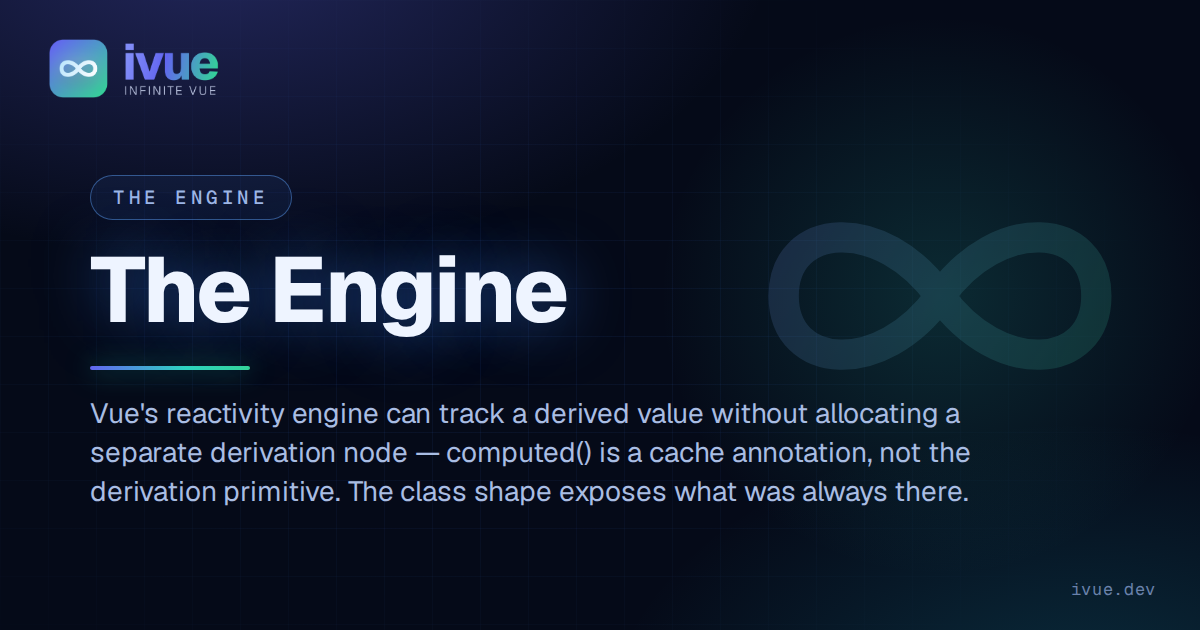
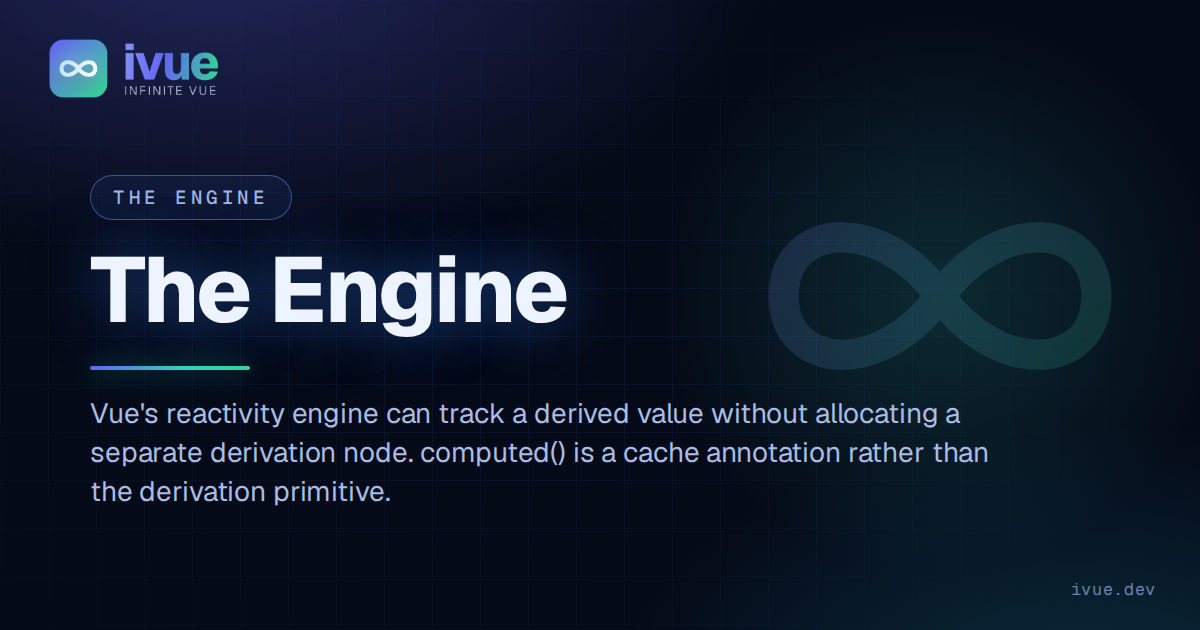
docs(engine): reduce the engine page — 1293 words to 861, zero prose-lint findings
Ran Vale (ai-tells + Slop) and ste-lint over the page and cut what they
found, then cut what they could not see.

Mechanical: 29 em-dashes and 11 prose semicolons gone, three explainer
headings restated as topics ("The engine's three moves", "Closure
geometry", "The prototype"), "load-bearing" removed, the not-X-but-Y
formulas dropped.

Structural: deleted the closing "The claim, precisely" section, which
restated the page, pre-apologised to three imagined objectors, and
repeated the 3-in-3,902 figure the census bullet already carries. Its
one piece of real information, the React scope limit, moved into
Convergence where it reads as landscape rather than disclaimer, and the
page gained a landing line.

Also cut three variants of the same "ivue adds nothing to Vue" crouch,
the duplicate concession to Vue's convention, two credibility labels
before the bullet lists, the prose that the prototype table repeats, and
the "transparent corridor" and "orders of magnitude" flourishes.

"Idiom" appeared eight times, three of them within four lines. Six sites
had a concrete subject available (every tutorial, everyone, Vue code);
the remaining two use "convention", which unlike "habit" allows the
convention to have been correct.

Every claim, number and link survives: the three moves, both code
blocks, 300 bytes per computed, three computed()s in ~3,900 lines,
6 to 132x creation, 1.1 kB. Frontmatter description trimmed so the OG
[…]

Changed region(s): [[0.0617, 0.6937, 0.8325, 0.8143]]

diff --git a/docs_v2/engine.md b/docs_v2/engine.md
@@ -1,38 +1,34 @@
 ---
 title: The Engine
-description: Vue's reactivity engine can track a derived value without allocating a separate derivation node — computed() is a cache annotation, not the derivation primitive. The class shape exposes what was always there.
+description: Vue's reactivity engine can track a derived value without allocating a separate derivation node. computed() is a cache annotation rather than the derivation primitive.
 relatedPosts: [computed-is-a-cache, discovered-not-invented, introducing-ivue]
 ---
 
 # The Engine
 
-ivue's central discovery is not a technique. It is a claim about Vue itself:
-
-> **Vue's reactivity engine has a native, zero-node mode for derived values —
-> and the standard idiom hides it.** `computed()` was never the derivation
+> **Vue's reactivity engine has a native, zero-node mode for derived values,
+> and the way Vue is normally written hides it.** `computed()` was never the derivation
 > primitive. It is a _cache annotation_. The derivation primitive is the
 > tracked read, and it flows through plain functions without creating another
 > reactive node.
 
-ivue doesn't patch Vue, wrap Vue, or compete with Vue. It changes the
-_authoring geometry_ so the engine's cheapest mode becomes the default
-instead of the exception. Same engine, different expression — and the
-difference is measured in orders of magnitude.
+ivue, a 1.1 kB class layer over that engine, changes the _authoring
+geometry_ so the cheapest mode becomes the default instead of the
+exception.
 
-## What the engine actually does
+## The engine's three moves
 
-Strip every idiom away and Vue's reactivity is three moves:
+Vue's reactivity is three moves:
 
-1. reads of reactive leaves (`ref.value`, reactive props) are **tracked**
-   against whatever effect is currently running;
-2. writes **notify** the effects that read them;
-3. tracking flows **through arbitrary function calls** — the engine neither
+1. Reads of reactive leaves (`ref.value`, reactive props) are **tracked**
+   against whatever effect is currently running.
+2. Writes **notify** the effects that read them.
+3. Tracking flows **through arbitrary function calls**. The engine neither
    knows nor cares how many stack frames sit between the effect and the leaf.
 
-That third move is the buried one. When a render effect reads a plain
-getter, the getter's body executes _inside the effect_ — so every leaf it
-touches subscribes the effect directly. The getter is a transparent
-corridor:
+The third move is the one Vue code rarely uses. When a render effect reads a
+plain getter, the getter's body executes _inside the effect_, so every leaf
+it touches subscribes the effect directly:
 
 ```ts
 class $Cart {
@@ -46,137 +42,109 @@ class $Cart {
 }
 ```
 
-A template reading `cart.total` re-renders when `items` changes — with
-**zero per-instance reactive machinery** for `total` itself. No `ComputedRefImpl`, no
-dependency links, no invalidation bookkeeping, no per-instance bytes. The
-engine has supported this since Vue 3.0 — it is a direct consequence of how
-tracking works, not a feature anyone had to add.
+A template reading `cart.total` re-renders when `items` changes, with
+**zero per-instance reactive machinery** for `total` itself. Everything it
+costs at runtime is the arithmetic in its body. The engine has supported
+this since Vue 3.0, as a direct consequence of how tracking works rather
+than a feature anyone had to add.
 
-So what does `computed()` actually buy? Exactly one thing: **memoization**
-— with ~300 bytes per instance, a graph node, and invalidation bookkeeping
-as the price ([the honest numbers](/guide/performance#memory-derivations-weigh-nothing)).
-Caching is a real service that is _sometimes_ worth buying. It was never
-the way derivation works.
+`computed()` buys one thing: **memoization**, priced at roughly 300 bytes
+per instance, a graph node, and invalidation bookkeeping
+([measured](/guide/performance#memory-derivations-weigh-nothing)). Caching
+is a real service, and sometimes you need it. It was never the way
+derivation works.
 
-## Why the idiom buried it
+## Closure geometry
 
-The official idiom — docs, tutorials, the entire ecosystem — teaches
-"derived state = computed property." If the engine doesn't need it, why does
-the idiom insist on it?
+Every tutorial teaches "derived state = computed property." If the engine
+doesn't need it, why does everyone write it?
 
-Because of **closure geometry** — and this is the honest part: Vue's idiom
-is _correct for Vue's authoring shape_. Inside `setup()`, there is no good
-home for a live derived value:
+The answer is **closure geometry**, and it means the convention is _correct
+for Vue's authoring shape_. Inside `setup()` there is no good home for a live
+derived value:
 
 ```ts
 setup() {
   const items = ref([]);
 
-  const total = items.value.reduce(...);   // ✗ computes ONCE — stale forever
+  const total = items.value.reduce(...);   // ✗ computes ONCE, stale forever
   const total = () => items.value.reduce(...); // ✗ works, but {{ total() }} everywhere
   const total = computed(() => ...);       // ✓ the only ergonomic option
 }
 ```
 
-A `const` evaluates once and dies. A function works but breaks template
-ergonomics. `computed()` is the only form that is both live and reads like
-a value — **so the idiom reached for it universally, and the cache tax came
-along silently**. Multiply by every derived value, every component, every
-instance of every component, and the ecosystem's default became: pay for
-memoization everywhere, need it almost nowhere.
+A `const` evaluates once and goes stale. A function re-evaluates but breaks
+template ergonomics. `computed()` is the only form that is both live and
+reads like a value. **Everyone uses it, and the cache tax comes along
+silently.** Multiply that by every derived value, every component, and
+every instance of every component, and the ecosystem's default became: pay
+for memoization everywhere, need it almost nowhere.
 
-The idiom wasn't wrong. It was the best expression available _in closure
-geometry_. The engine's cheapest mode simply has no syntax there.
+The engine's cheapest mode has no syntax in closure geometry.
 
-## What the class shape excavates
+## The prototype
 
-A class has the one thing a closure lacks: a **prototype** — a place where
-a derived value can live _once_, stay _live_ (getters re-execute per read),
-and read like a value (`cart.total`, no parentheses). The three requirements
-that forced `computed()` in closures are all met without per-instance
-derivation machinery:
+A closure has no prototype and a class does. Every requirement that forced
+`computed()` in closures is met on one, without per-instance derivation
+machinery:
 
-| requirement            | closure                  | class                       |
-| ---------------------- | ------------------------ | --------------------------- |
-| stays live             | only `computed()`/fn     | getter re-runs per read     |
-| reads like a value     | only `computed()`        | getter — `cart.total`       |
-| costs nothing per instance | ✗ (closure or cell each) | prototype — shared, 0 bytes |
+| requirement        | closure                  | class                       |
+| ------------------ | ------------------------ | --------------------------- |
+| stays live         | only `computed()`/fn     | getter re-runs per read     |
+| reads like a value | only `computed()`        | getter, `cart.total`        |
+| per-instance cost  | closure or cell for each | prototype, shared, 0 bytes  |
 
-That's the entire excavation. The class shape doesn't add a capability to
-Vue — it gives Vue's _existing_ cheapest mode an ergonomic syntax, at which
-point `computed()` collapses back to what it always was: a surgical opt-in
-for the rare derivation where caching pays
+Given the syntax, `computed()` collapses back to what it always was: a
+surgical opt-in for the rare derivation where caching pays
 ([when, exactly](/guide/computed-watch#computed-your-usememo)).
 
-The transformation happens once per prototype; steady execution remains
-stable, ordinary JavaScript property access. [Performance by
-Design](/guide/performance#designed-for-native-jit-shapes) explains how
-that structure gives modern just-in-time compilers consistent shapes to
-specialize without making runtime optimization part of ivue's correctness.
+The transformation happens once per prototype. Steady execution is ordinary
+JavaScript property access. [Performance by
+Design](/guide/performance#designed-for-native-jit-shapes) explains how that
+structure gives just-in-time compilers consistent shapes to specialize.
 
 ## What falls out
 
-Consequences observed in production, not projected:
-
-- **A census, not a vibe.** A shipped reader application — virtualized
-  scrolling on the same class that [drives 1,000,000 rows live on this
-  site](/examples/virtual-scroller), seek, search, autoplay, inline
-  editing — runs on **three** `computed()`s across ~3,900 lines: one
-  expensive search sweep, one render-suppressing window snapshot, one
-  stable watched handle. Every other derived value in ~170 getters is a
-  plain getter. Each of the three maps to one of the doctrine's named
-  exceptions; a fourth was deleted when it failed the test.
+- **A census.** A shipped reader application, with virtualized scrolling on
+  the same class that [drives 1,000,000 rows live on this
+  site](/examples/virtual-scroller), plus seek, search, autoplay and inline
+  editing, runs on **three** `computed()`s across ~3,900 lines: one
+  expensive search sweep, one render-suppressing window snapshot, one stable
+  watched handle. Every other derived value across ~170 getters is a plain
+  getter. Each of the three maps to a named exception in the doctrine. A
+  fourth was deleted when it failed the test.
 - **`computed()` becomes signal.** When the keyword appears three times
-  instead of three hundred, each occurrence _means something_: "the
-  derivation behind this is expensive." The annotation's rarity is
-  documentation.
+  instead of three hundred, each occurrence means the derivation behind it is
+  expensive. Its rarity is documentation.
 - **Instance cost collapses.** Derivations weigh nothing per instance, so
-  10k-row virtualized lists stop paying megabytes of bookkeeping —
-  [6–132× faster creation, up to 5× less live heap](/guide/performance).
-- **The graph stays constant-size.** Reactive-graph size stops scaling
-  with feature count or data size; it scales with _how many caches you
-  deliberately bought_. Complexity becomes locally auditable — each new
-  getter's cost is readable off its body.
+  10k-row virtualized lists stop paying megabytes of bookkeeping:
+  [6 to 132× faster creation, up to 5× less live heap](/guide/performance).
+- **The graph is constant-size.** Reactive-graph size scales with _how many
+  caches you deliberately bought_ rather than with feature count or data
+  size. Complexity becomes locally auditable, because each new getter's cost
+  is readable off its body.
 - **Development matches production.** The engine uses native construction and
   direct method binding in every environment. Vite and Vue rebuild the owner
   after script edits, so no development proxy or dispatch layer changes the
   class geometry being tested ([Development & HMR](/guide/hmr)).
 
-## Convergence — others keep finding the same invariant
+## Convergence
 
-A real invariant gets rediscovered from independent directions:
+Others arrived at the same place:
 
-- **Solid.js** documents it outright: derived values are plain functions;
-  `createMemo` only when memoization pays. Same invariant, closure-geometry
-  dialect ([the full comparison](/guide/model-layer#ivue-vs-solid-js)).
-- **Vue 3.4** shipped equality-based propagation stops for computeds — the
-  team optimizing the cache tax the idiom institutionalized.
-- **MobX** made `computed` opt-in decoration over plain class getters a
-  decade ago — different engine, same geometry conclusion.
+- **Solid.js** documents it outright: derived values are plain functions, and
+  `createMemo` comes out only when memoization pays. Same invariant, in the
+  closure-geometry dialect
+  ([the full comparison](/guide/model-layer#ivue-vs-solid-js)).
+- **Vue 3.4** shipped equality-based propagation stops for computeds, the
+  team trimming the cache tax the convention institutionalized.
+- **MobX** made `computed` an opt-in decoration over plain class getters a
+  decade ago. Different engine, same conclusion about geometry.
 
-ivue's contribution is not the invariant — it is expressing the invariant _inside
-Vue's own engine_, unmodified, so a Vue codebase gets it without changing
-frameworks: zero patches, standard `ref()`/`computed()`/`watch` underneath,
-1.1 kB of glue.
+ivue's contribution is expressing that invariant _inside Vue's own engine_,
+unmodified. A Vue codebase gets it without changing frameworks: zero
+patches, standard `ref()`/`computed()`/`watch` underneath, 1.1 kB of glue.
+React stays outside this: it has no tracked reads for a getter to flow
+through.
 
-## The claim, precisely
-
-**Claimed:** Vue's engine natively supports zero-cost, fully-reactive
-derivation through plain getters; `computed()` is semantically a cache
-annotation; the closure authoring shape is what made it look like a
-derivation primitive; a class shape restores the engine's default, and the
-practical need for `computed()` drops to the low single digits per
-thousands of lines.
-
-**Not claimed:** that the Vue team doesn't understand their own engine
-(they built the mechanism this page describes); that `computed()` is bad
-(three of them are load-bearing in the flagship case study); that this
-holds outside Vue's fine-grained tracking model (it doesn't — React has no
-tracked reads to flow through).
-
-**Falsifiable:** census your own ivue codebase. If honest application of
-the doctrine — cache only for expensive work, render suppression, or a
-stable watched handle — leaves you needing `computed()` for a substantial
-fraction of your derived values, this page is wrong. Measured so far: 3 in
-3,902 lines, under production load, on a scroller that
-[runs 1,000,000 rows live](/examples/virtual-scroller).
+The cheap mode was always in the engine. There was no way to write it down.
